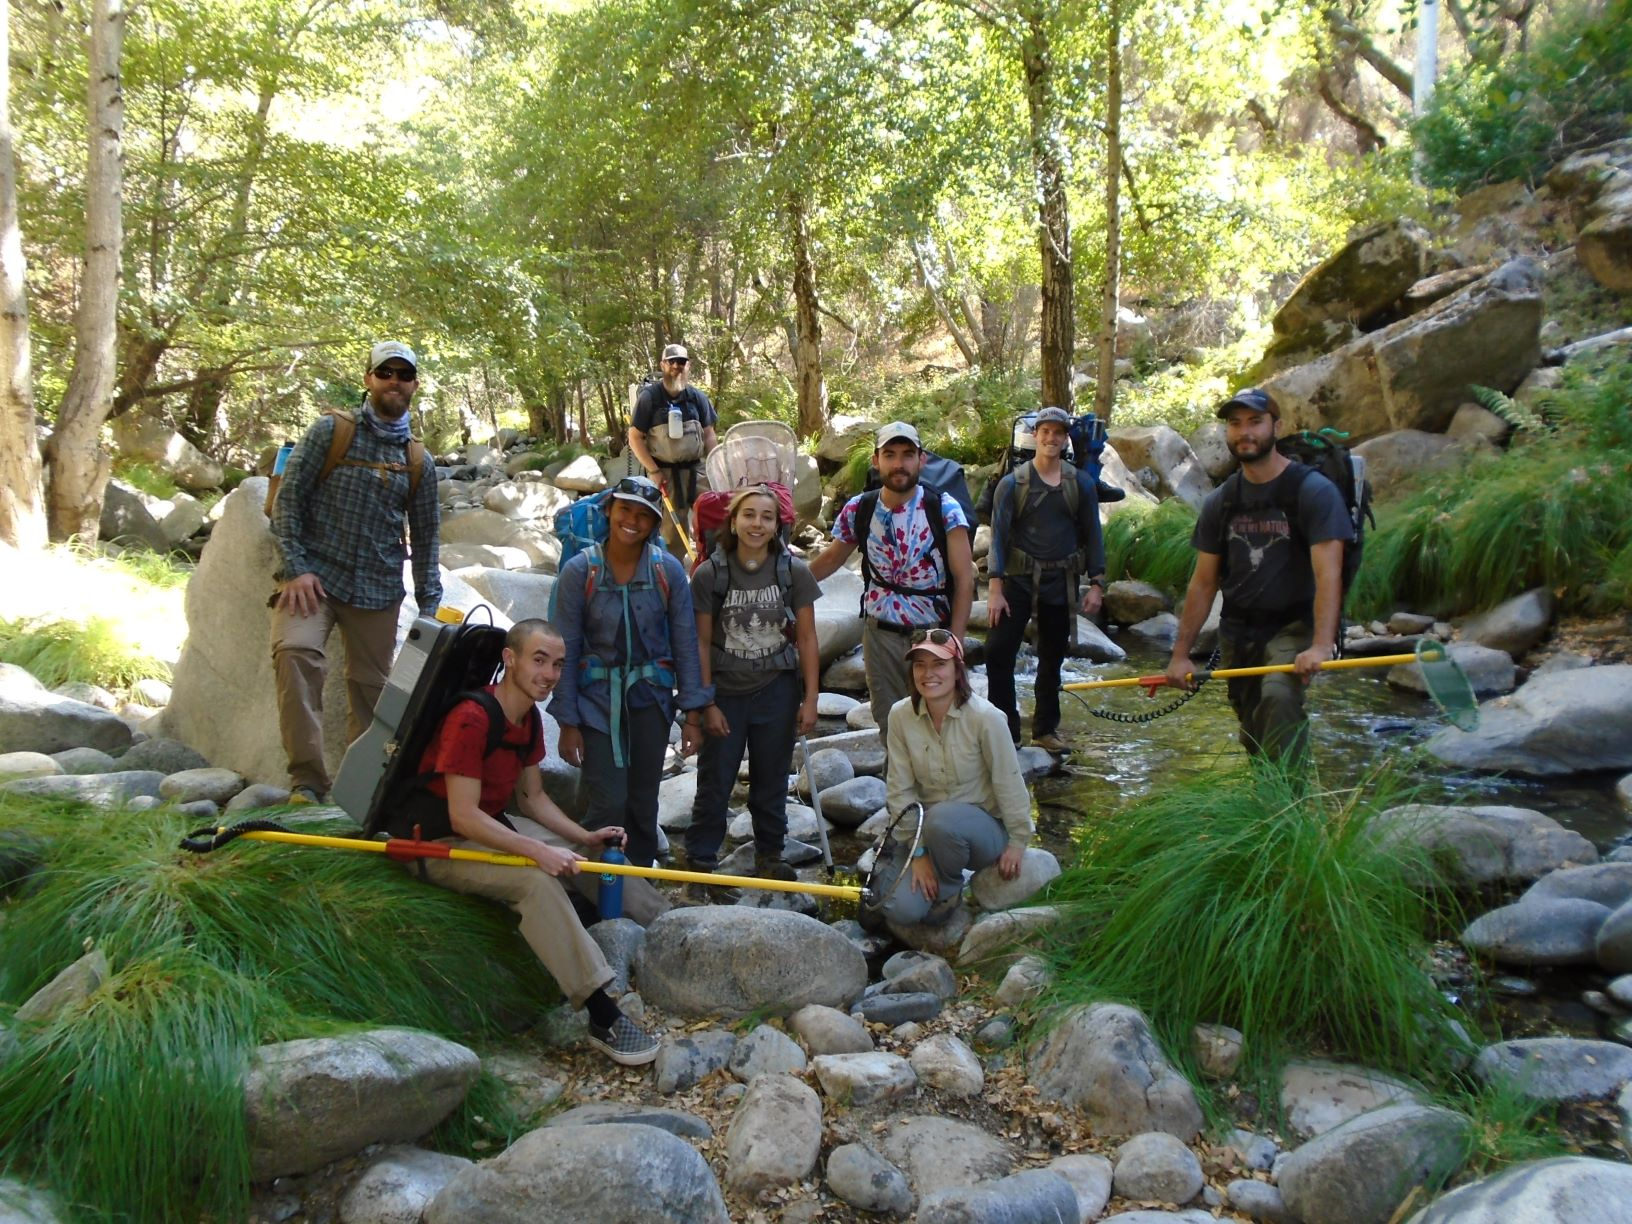
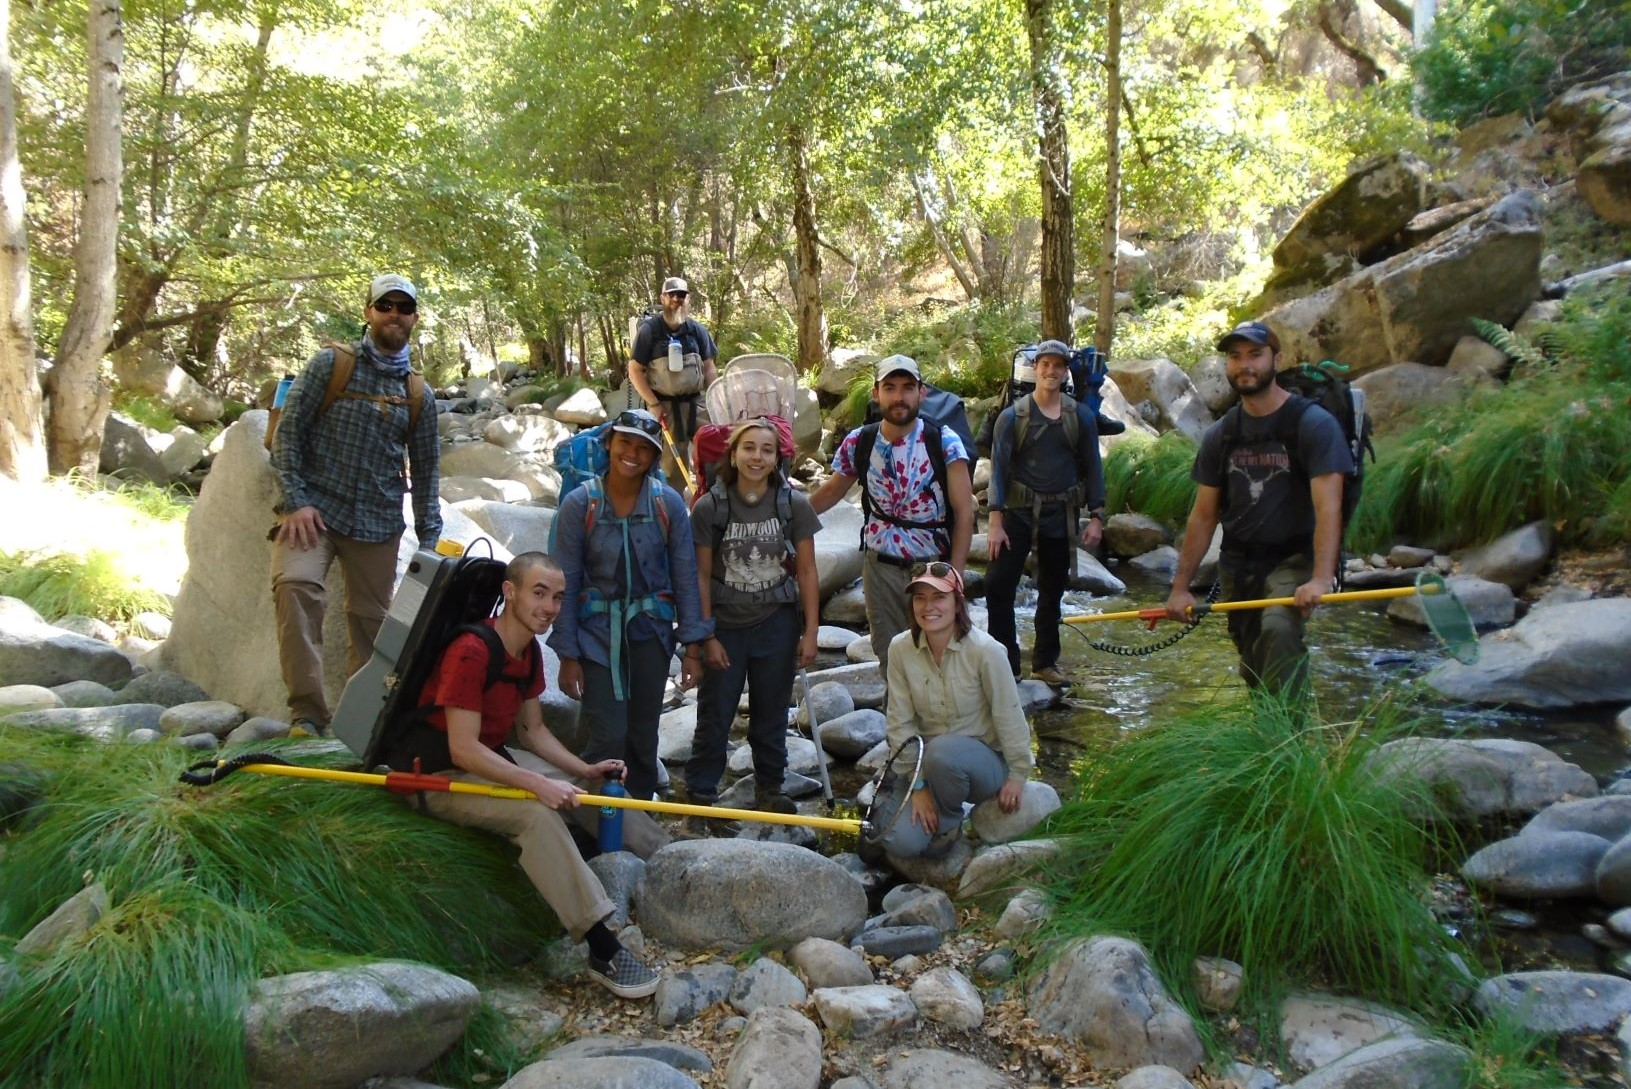
projects update

diff --git a/index.html b/index.html
@@ -183,23 +183,26 @@
        <h3 class="w3-center">CURRENT PROJECTS, COLLABORATIONS & ACTIVE AREAS OF RESEARCH</h3>
 		  <!-- First Photo Grid-->
 		  <div class="w3-row-padding w3-padding-16 w3-center" id="projects">
-			<div class="w3-quarter">
-			  <img src="resources/images/Smolt_sm.JPG" alt="CarmelCrew" style="width:100%">
+			<div class="w3-half">
+			  <img src="resources/images/CarmelGroup_sm.JPG" alt="CarmelCrew" style="width:100%">
 			  <h3>Carmel River Steelhead ecology and conservation</h3>
-			  <p> <em>in collaboration with <a href="https://www.mpwmd.net/" target="_blank">Monterey Peninsula Water Management District</a>, California Department of Fish and Wildlife, <a href="https://www.carmelsteelhead.org/" target="_blank">Carmel River Steelheaders Association</a>, and funded by California American Water</em></p> 
+			  <p> <em>in collaboration with <a href="https://www.mpwmd.net/" target="_blank">Monterey Peninsula Water Management District</a>, California Department of Fish and Wildlife, <a href="https://www.carmelsteelhead.org/" target="_blank">Carmel River Steelhead Association</a>, and funded by California American Water</em></p> 
 			</div>
-			<div class="w3-quarter">
-			  <img src="resources/images/DryRiver_sm.jpg" alt="Drought" style="width:100%">
-			  <h3>Califoria steelhead response to extreme drought</h3>
-			  <p>ADD TEXT HERE</p>
+			<div class="w3-half">
+			  <img src="resources/images/DroughtRiv_sm.jpg" alt="Drought" style="width:100%">
+			  <h3>California steelhead response to extreme drought</h3>
+			  <p><em>Leveraging state-wide data to assess metapopulation effects of drought. A collaboration with SWFSC</em> </p>
 			</div>
-			<div class="w3-quarter">
-			  <img src="resources/images/AntTwo.png" alt="Antenna" style="width:100%">
+		  </div>         	   
+		  <!-- Second Photo Grid-->
+		  <div class="w3-row-padding w3-padding-16 w3-center" id="projects">
+			<div class="w3-half">
+			  <img src="resources/images/Ants.png" alt="Antenna" style="width:100%">
 			  <h3>PIT tag antenna designs</h3>
 			  <p><em>In collaboration with NOAA NWFSC and Oregon Dept. Fish and Wildlife</em></p>
 			</div>
-			<div class="w3-quarter">
-			  <img src="resources/images/FishMorph.jpg" alt="Morphs" style="width:100%">
+			<div class="w3-half">
+			  <img src="resources/images/RbtMorph_sm.jpg" alt="Morphs" style="width:100%">
 			  <h3>RPS evolution in salmon and spadefoot toads</h3>
 			  <!-- <p><em>in collaboration with <a href="www.mpwmd.net" target="_blank">Sinervo Lab at UCSC</a></em></p> -->
 			  <p><em>in collaboration with the Sinervo Lab at UCSC</em></p> 
@@ -235,7 +238,7 @@
           </div>
           <div class="w3-col m6 w3-panel">
              <div class="w3-large w3-margin-bottom">
-                <i class="fa fa-map-marker fa-fw w3-hover-text-black w3-xlarge w3-margin-right"></i> UCSC Institute of Marine Sciences & NOAA Southwest Fisheries Science Center<br>
+                <i class="fa fa-map-marker fa-fw w3-hover-text-black w3-xlarge w3-margin-right"></i> UCSC Collaborative Fisheries Program      & NOAA Southwest Fisheries Science Center<br>
                 <i class="fa fa-phone fa-fw w3-hover-text-black w3-xlarge w3-margin-right"></i> Phone: (831) 420-3926<br>
                 <i class="fa fa-envelope fa-fw w3-hover-text-black w3-xlarge w3-margin-right"></i> Email: haley.ohms@noaa.gov<br>
                 <a href="https://github.com/haleyohms" target="_blank">
